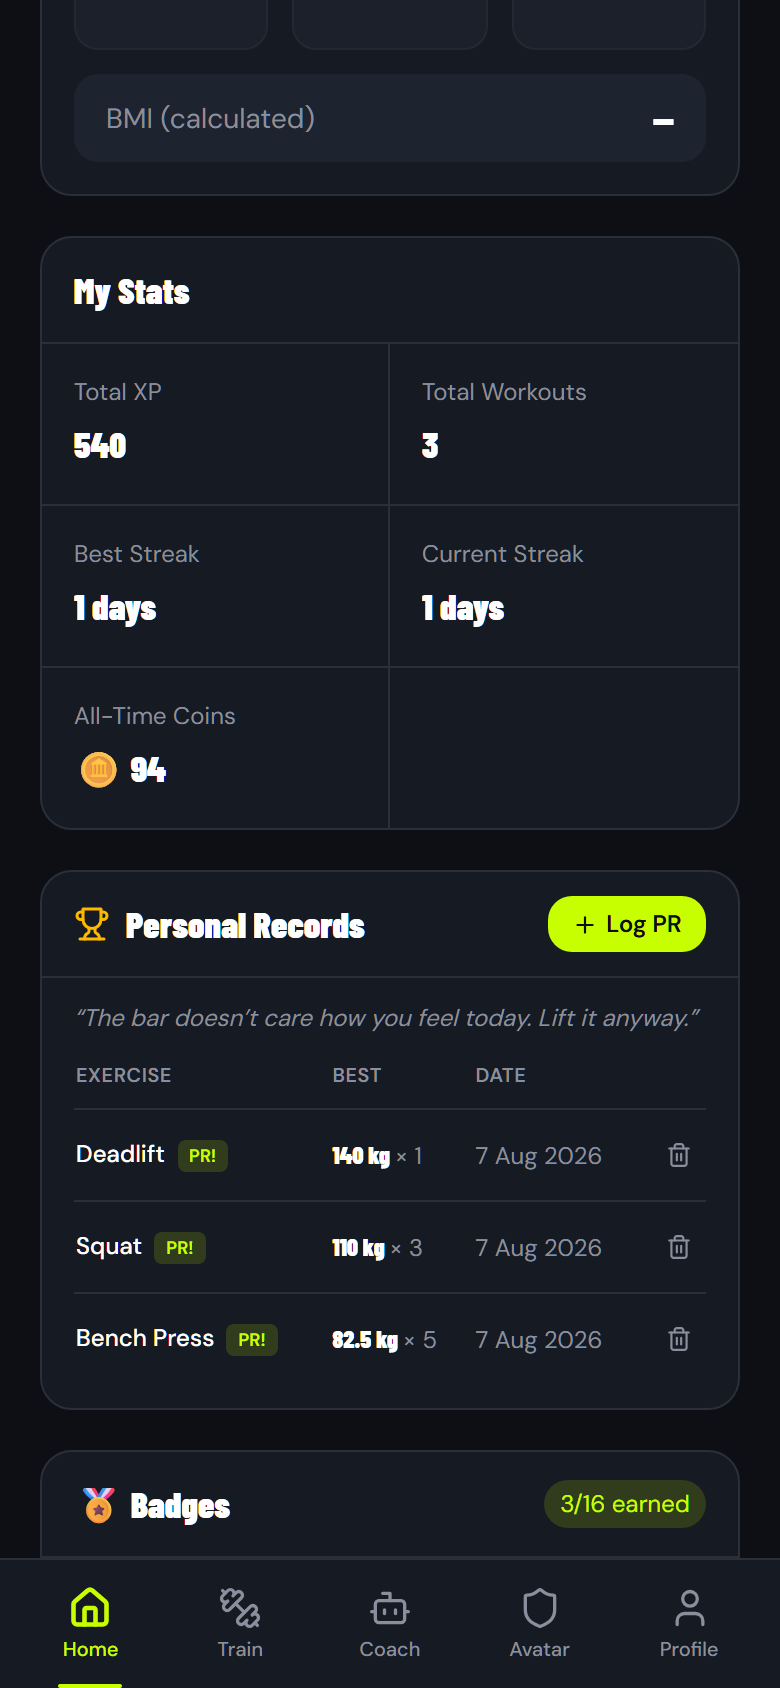
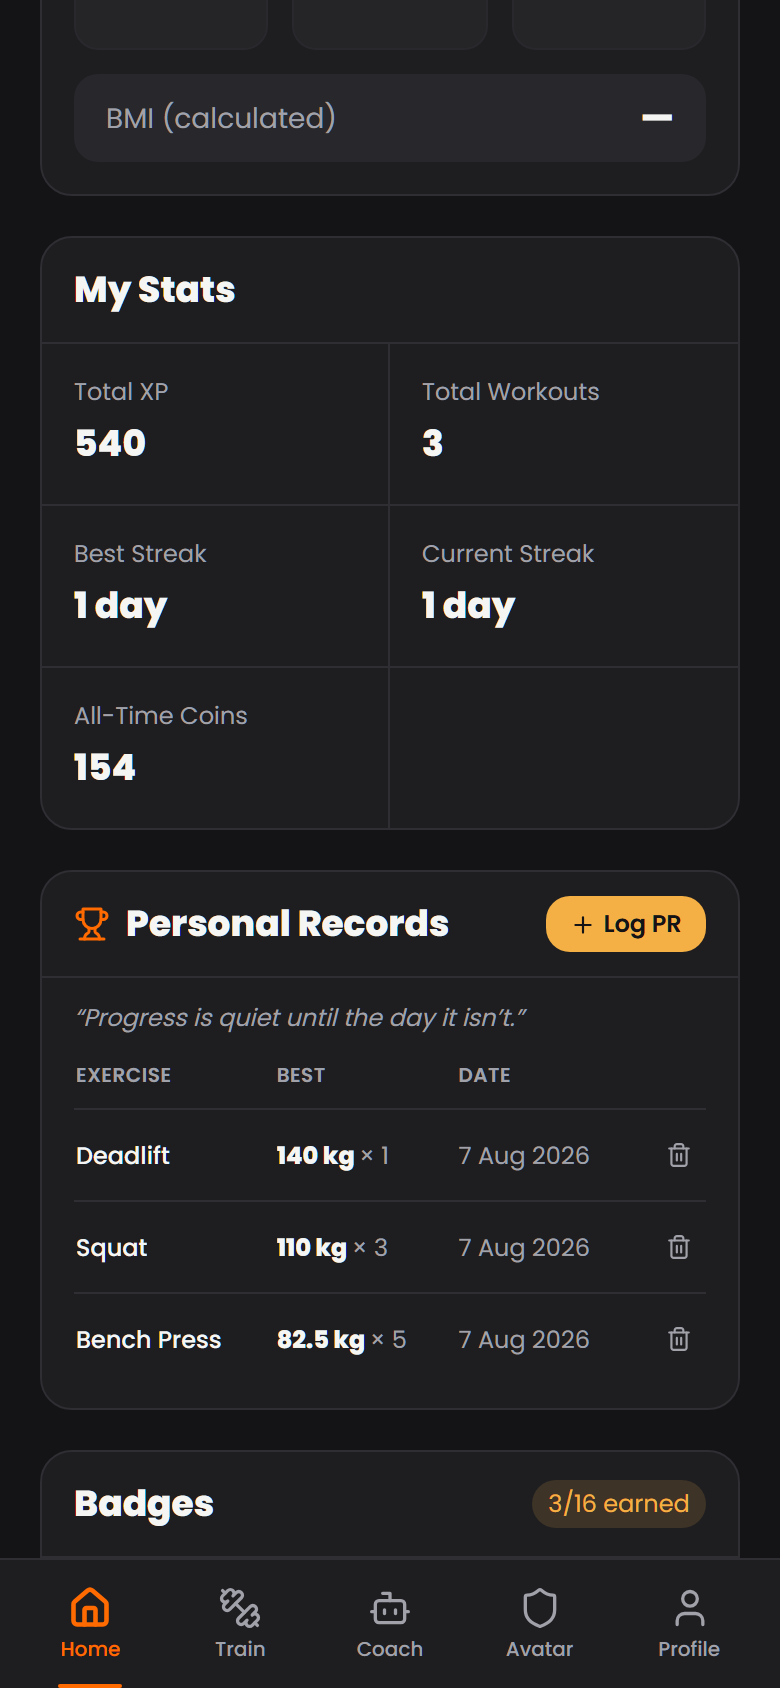
docs(readme): the athlete cast, Beginner to Elite, the Kit Bag, Coach Gus
The README still described the August app: Bronze-to-Apex ranks, layered
SVG avatars with five classes and two rigs, and a hero banner with the
lightning-bolt mark on lime. It now describes the ranks, the ten preset
athletes and their four pictures, the Kit Bag, and the coach pup, and the
layout section lists components/brand.

Screens and hero recaptured from the current app with
scripts/readme-assets.mjs, which needed updating to run at all: it waits for
the Turnstile token before signing in, takes a base URL argument, no longer
patches avatar_config to pose a drawn rig, seeds demo PRs only on an account
with none, and builds the hero from brand.js on the Ignition palette.
--hero-only rebuilds the banner from existing shots with no sign-in.

diff --git a/README.md b/README.md
@@ -1,5 +1,5 @@
 <p align="center">
-  <img src="docs/images/hero.png" alt="GameFit — your workouts, levelled up" width="100%">
+  <img src="docs/images/hero.png" alt="GameFit: your workouts, leveled up" width="100%">
 </p>
 
 <p align="center">
@@ -19,10 +19,11 @@
 
 ---
 
-GameFit turns training into an RPG. You log a workout, the server works out what
-it was worth, and you get XP, coins and a streak back. Enough of those and you
-climb the rank ladder, your avatar picks up better gear, and Coach Gus starts
-giving advice shaped by your actual training history rather than generic tips.
+GameFit turns training into a game. You log a workout, the server works out
+what it was worth, and you get XP, coins and a streak back. Enough of those and
+you climb from Beginner to Elite, your athlete earns the elite kit, the coins buy
+real gear in the Kit Bag, and Coach Gus, the husky who coaches you, gives advice
+shaped by your actual training history rather than generic tips.
 
 The interesting engineering problem here isn't the game layer. It's that a
 fitness game is trivially cheatable if the browser is allowed to decide how much
@@ -30,26 +31,34 @@ XP you earned. Everything below follows from refusing to let it.
 
 ## Screens
 
-| Dashboard | Coach Gus | Personal records | Avatar |
+| Dashboard | Coach Gus | Personal records | Athlete |
 |:---:|:---:|:---:|:---:|
-| <img src="docs/images/screens/dashboard.png" width="190" alt="Dashboard with rank, XP and streak"> | <img src="docs/images/screens/coach.png" width="190" alt="AI coach answering with a formatted table"> | <img src="docs/images/screens/records.png" width="190" alt="Personal records table"> | <img src="docs/images/screens/avatar.png" width="190" alt="Avatar customization"> |
-| Rank, streak and weekly goal at a glance | Answers render as real tables and charts | Best lift per exercise, with PR badges | Two rigs, five classes, five tiers |
+| <img src="docs/images/screens/dashboard.png" width="190" alt="Dashboard with rank, XP, streak and a line from the coach"> | <img src="docs/images/screens/coach.png" width="190" alt="AI coach answering with a formatted table"> | <img src="docs/images/screens/records.png" width="190" alt="Personal records table"> | <img src="docs/images/screens/avatar.png" width="190" alt="The player's athlete with rank and XP progress"> |
+| Rank, streak, weekly goal, and today's line from the coach | Answers render as real tables and charts | Best lift per exercise, with PR badges | Ten preset athletes, four pictures each |
 
 ## What it does
 
-**Progression.** Five rank tiers with Roman-numeral sub-ranks, Bronze through
-Apex. Daily streaks on an Asia/Dubai day boundary, a monthly streak calendar,
-badges, and a 14-day XP chart.
+**Progression.** Five ranks (Beginner, Novice, Intermediate, Advanced, and
+Elite), with Roman-numeral sub-ranks below Elite. Daily streaks on an
+Asia/Dubai day boundary, a monthly streak calendar, badges, and a 14-day XP
+chart.
 
-**Avatars.** Layered SVG, drawn at runtime rather than shipped as sprites: two
-body rigs × 5 classes × 5 gear tiers, plus skin tones, hairstyles and shop
-accessories. Both rigs share gear anchor points, so all 25 class/tier gear sets
-fit either body without redrawing a single pauldron.
+**Athletes.** You train as one of ten preset athletes across five disciplines
+(Lifter, Runner, Fighter, Gymnast, and Yogi), aged 22 to 52 and covering six
+skin tones. Each has four 2D pictures: relaxed, celebrating, elite kit (shown from
+the Elite rank) and a rest-day look once the weekly target is met.
 
-**Coach Gus.** Claude Haiku, called only from an Edge Function so the API key
+**Kit Bag.** Coins buy real sports gear in three slots: a floor item beside the
+athlete, a wearable item fitted from anchors measured on all 40 pictures, and a
+finish effect that plays when a workout ends. Purchases and equips go through
+one `kit_bag()` Postgres function; the client never sets what a player owns.
+
+**Coach Gus.** A husky drawn as an animated SVG rig with 20 poses, who greets
+you at sign-in, walks you through onboarding, and talks in the chat. Behind it,
+Claude Haiku, called only from an Edge Function so the API key
 never reaches a browser. Prompts carry your profile, get sanitised against
 injection, drop into a conservative mode for under-18 users, and are capped at
-10 requests a month on the free tier — counted in Postgres, not in localStorage.
+10 requests a month on the free tier, counted in Postgres, not in localStorage.
 
 **Personal records.** Self-reported best weight × reps per lift, with dates and
 PR badges. These award badges but deliberately no XP or coins: an unverifiable
@@ -150,7 +159,8 @@ server-only values.
 
 ```
 src/
-  components/avatar/     layered SVG avatar system (rigs, hair, class gear, tiers)
+  components/avatar/     athlete cast, Kit Bag catalog and placement anchors
+  components/brand/      logo, wordmark, and the Coach Gus pup rig
   components/gamefit/    app-specific UI (rank emblem, streak calendar, records…)
   components/ui/         Radix/shadcn primitives
   lib/                   GameFitContext, ranks, badges, validation, analytics
